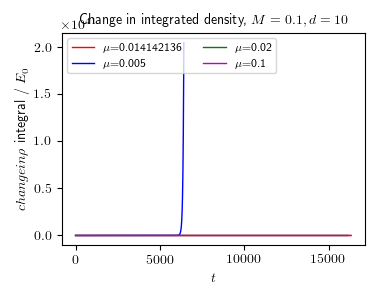
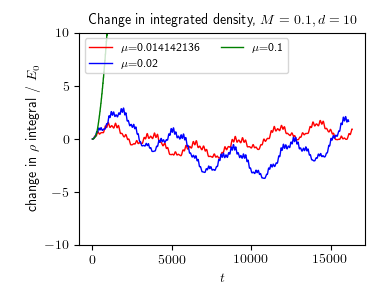
plotting file for Newtonian BH

diff --git a/Analysis/scripts/plot_rho_flux_Newtonian.py b/Analysis/scripts/plot_rho_flux_Newtonian.py
@@ -25,6 +25,17 @@ Nphi=64
 
 r_max = 120
 
+def time_average(x, n_chunk):
+	N = len(x)
+	no_chunks = int(np.ceil(N/n_chunk))
+	x_out = np.zeros(no_chunks)
+	for i in range(0, no_chunks-1):
+		x_out[i] = np.mean(x[i*n_chunk:(i+1)*n_chunk])
+	x_out[-1] = np.mean(x[-n_chunk:])
+	return x_out
+
+n_av = 100
+
 class data_dir:
 	def __init__(self, num, M, d, mu, dt):
 		self.num = num
@@ -36,26 +47,27 @@ class data_dir:
 	#
 	def load_data(self):
 		# load flux and mass data from csv files	
-		file_name = data_root_path + self.name + "/outputs/" + "RhoIntegral.dat"
-		data = np.genfromtxt(file_name, skip_header=1)
+		file_name = data_root_path + self.name + "/outputs/" + "Force_integrals.dat"
+		data = np.genfromtxt(file_name, skip_header=2)
 		print("loaded " + file_name)
-		self.time = data[:,0]
+		self.time = time_average(data[:,0],n_av)
 		mu = float(self.mu)
-		E0 = 0.5*(4*np.pi*(r_max**3)/3)*(phi0*mu)**2
-		self.rho_integral = (data[:,1] - data[0,1])/E0
-		self.rhoJ_integral = (data[:,2] - data[0,2])/E0
+		F0 = 4*np.pi*(r_max**2)*(phi0**2)*(mu**2)
+		self.Edot = time_average(data[:,1]/F0,n_av)
+		self.Jdot = time_average(data[:,2]/F0,n_av)
 				
 data_dirs = []
 def add_data_dir(num, M, d, mu, dt):
         x = data_dir(num, M, d, mu, dt)
         data_dirs.append(x)
 
+
 # choose datasets to compare
 
-add_data_dir(1, "0.1", "10", "0.014142136", "0.25")
-#add_data_dir(2, "0.1", "10", "0.005", "0.25")
-add_data_dir(3, "0.1", "10", "0.02", "0.25")
 add_data_dir(4, "0.1", "10", "0.1", "0.25")
+add_data_dir(3, "0.1", "10", "0.02", "0.25")
+add_data_dir(2, "0.1", "10", "0.005", "0.25")
+add_data_dir(1, "0.1", "10", "0.014142136", "0.25")
 
 def plot_graph():
 	# plot setup
@@ -75,14 +87,14 @@ def plot_graph():
 		dd.load_data()
 		mu = float(dd.mu)
 		label_ = "$\\mu$={:s}".format(dd.mu)
-		ax1.plot(dd.time,dd.rho_integral,colours[i]+"-", label=label_, linewidth=1)
+		ax1.plot(dd.time,dd.Edot,colours[i]+"-", label=label_, linewidth=1)
 		i = i + 1
 	ax1.set_xlabel("$t$", fontsize=label_size)
 	#ax1.set_xlim((0, 500))
-	ax1.set_ylim((-10, 10))
-	ax1.set_ylabel("change in $\\rho$ integral / $E_0$", fontsize=label_size)
-	ax1.set_title("Change in integrated density, $M=0.1,d=10$", wrap=True, fontsize=title_font_size)
-	save_path = home_path + "/plots/Newtonian_Scalar_change_in_rho_integral_vs_mu.png".format(R_max)
+	ax1.set_ylim((-2, 6))
+	ax1.set_ylabel("$\\rho$ flux / $F_0$", fontsize=label_size)
+	ax1.set_title("Density flux into $r=120$,$M=0.1,d=10$", wrap=True, fontsize=title_font_size)
+	save_path = home_path + "/plots/Newtonian_Scalar_rho_flux_vs_mu.png".format(R_max)
 	ax1.legend(loc='upper left', ncol=2, fontsize=legend_font_size)
 	plt.xticks(fontsize=font_size)
 	plt.yticks(fontsize=font_size)
